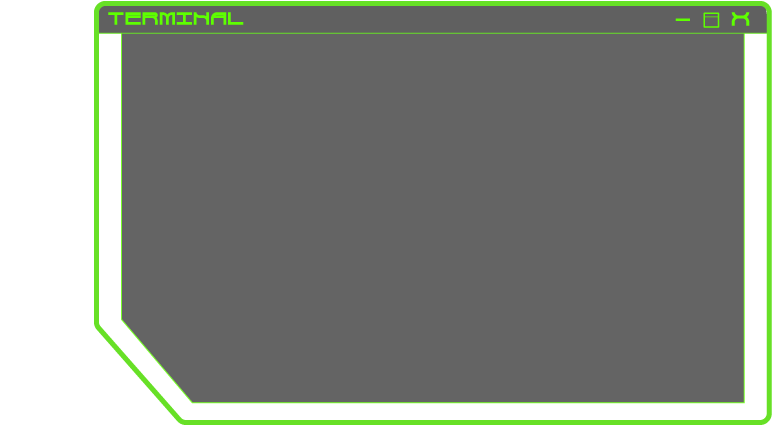
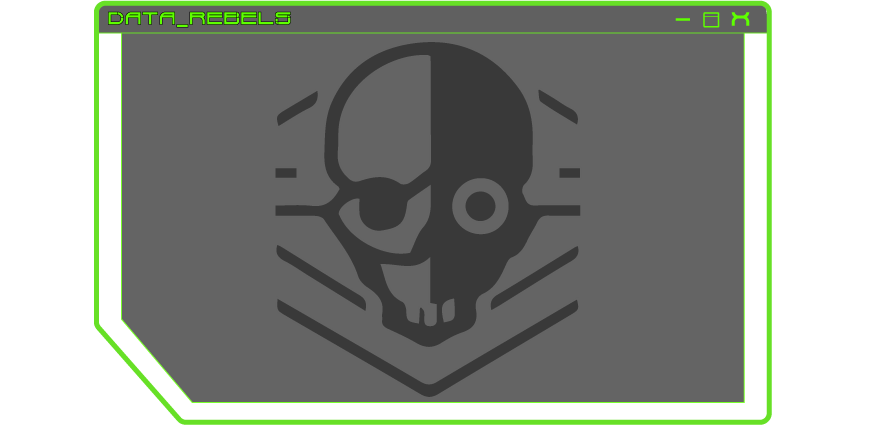
styled play and home pages ヽ(｀Д´#)ﾉ ﾑｷｰ!!

Changed region(s): [[0.0933, 0.0, 1.0, 1.0], [0.3109, 0.0918, 0.6528, 0.8259], [0.5596, 0.7035, 0.6528, 0.8259]]

diff --git a/public/css/play.css b/public/css/play.css
@@ -1,0 +1,61 @@
+
+.terminal {
+  pointer-events: none;
+  position: absolute;
+  top: 0;
+  left: -70px;
+  z-index: 1; 
+  transform: scale(.85);/* Ensure the terminal is on top of the Three.js canvas */
+}
+
+.terminal-text {
+  pointer-events: none;
+  position: absolute;
+  top: 60px;
+  left: 100px;
+  z-index: 2;
+  width: 500px;
+  height: 300px;
+  overflow: hidden;
+  font-size: 16px;
+  font-family: "JetBrains Mono", monospace;
+  color: #fff;
+  text-align: left;
+  padding: 10px;
+  white-space: normal;
+  word-wrap: break-word;
+}
+
+.terminal-text button {
+
+  position: absolute;
+  right:20px;
+  pointer-events: all;
+  z-index: 19;
+  background-color: #5f5f5f;
+  color: #FFFFFF;
+  border: none;
+  padding: 5px 10px;
+  font-size: 16px;
+  font-weight: bolder;
+  cursor: pointer;
+  box-shadow: -2px 2px rgb(179, 179, 179) inset, 
+  -2px 2px rgb(37, 37, 37);
+} 
+
+
+.terminal-text button:hover{
+  background-color: #000000;
+  color: #00ff15;
+}
+
+.turn{
+  pointer-events: none;
+  position: absolute;
+  right: 60px;
+  border: 1px solid #000000;
+}
+
+.turn-color {
+  color: red;
+}

diff --git a/public/js/3dRender/homePage.js b/public/js/3dRender/homePage.js
@@ -49,7 +49,7 @@ const cardGeometry = new THREE.BoxGeometry( 2, 2.5, 0.1 );
 // card mesh
 card = new THREE.Mesh( cardGeometry, cardMaterial );
 // card position
-card.position.set( -3.5,.5, 1,0)
+card.position.set( -3.5,0, 1,0)
 scene.add(card);
 startPoint = new THREE.Vector3(card.position.x, card.position.y, card.position.z)
 
@@ -64,21 +64,14 @@ controls.addEventListener('dragend', event =>{
 // create Terminal 
 const cubeTextureLoader = new THREE.TextureLoader();
 const cubeTexture = cubeTextureLoader.load('/imgs/UI/Terminal.png') 
-const geometry = new THREE.PlaneGeometry( 4, 2.5);
+const geometry = new THREE.PlaneGeometry( 5, 2.5);
 const material = new THREE.MeshBasicMaterial( { 
     transparent: true,
     map: cubeTexture } );
 const cube = new THREE.Mesh( geometry, material );
-cube.position.set( -.2,0,2)
+cube.position.set( .82,0,2)
 scene.add( cube );
 
-
-
-// Setup DragControls
-// const controls = new DragControls([card], camera, renderer.domElement);
-// controls.addEventListener('dragend', event =>{
-//     returning = true;
-// })
 
 
 camera.position.z = 5;

diff --git a/public/css/home.css b/public/css/home.css
@@ -1,19 +1,19 @@
-#home {
+#roll{
     position: absolute;
-  top: 30%;
-  left: 43%;
-  font-family: "JetBrains Mono", monospace;
-  text-align: center;
-  color: #19d308;
+    top: 35%;
+    left: 50%;
+    font-family: "JetBrains Mono", monospace;
+    text-align: center;
+    color: #19d308;
   }
-
-  #home a{
+  
+  #log a{
     text-decoration: none;
     color: #00ff15;
     font-family: "JetBrains Mono", monospace;
   }
   
-  #home button{
+  #log button{
       z-index: 19;
       background-color: #5f5f5f;
       color: #FFFFFF;
@@ -29,14 +29,15 @@
       -2px 2px rgb(37, 37, 37);
     }
   
-    #home button:hover{
+    #log button:hover{
       background-color: #000000;
     color: #00ff15;
     }
   
-    #reg-split{
+    #log-split{
       font-family: "JetBrains Mono", monospace;
       position: absolute;
       top: 130%;
       left: 10%;
     }
+  

diff --git a/public/css/style.css b/public/css/style.css
@@ -6,32 +6,6 @@ body{
   box-sizing: border-box;
 }
 
-.terminal {
-  pointer-events: none;
-  position: absolute;
-  top: 0;
-  left: -70px;
-  z-index: 1; 
-  transform: scale(.85);/* Ensure the terminal is on top of the Three.js canvas */
-}
-
-.terminal-text {
-  pointer-events: none;
-  position: absolute;
-  top: 7%;
-  left: 5%;
-  z-index: 2;
-  width: 500px;
-  height: 300px;
-  overflow: hidden;
-  font-size: 16px;
-  font-family: "JetBrains Mono", monospace;
-  color: #fff;
-  text-align: left;
-  padding: 10px;
-  white-space: normal;
-  word-wrap: break-word;
-}
 
 .taskbar {
   z-index: 20;

diff --git a/public/js/3dRender/base.js b/public/js/3dRender/base.js
@@ -15,7 +15,7 @@ document.body.appendChild( renderer.domElement );
 
 const cubeTextureLoader = new THREE.TextureLoader();
 const cubeTexture = cubeTextureLoader.load('/imgs/UI/Terminal.png') 
-const geometry = new THREE.PlaneGeometry( 4, 2.5);
+const geometry = new THREE.PlaneGeometry( 4, 2.);
 const material = new THREE.MeshBasicMaterial( { 
     transparent: true,
     map: cubeTexture } );
